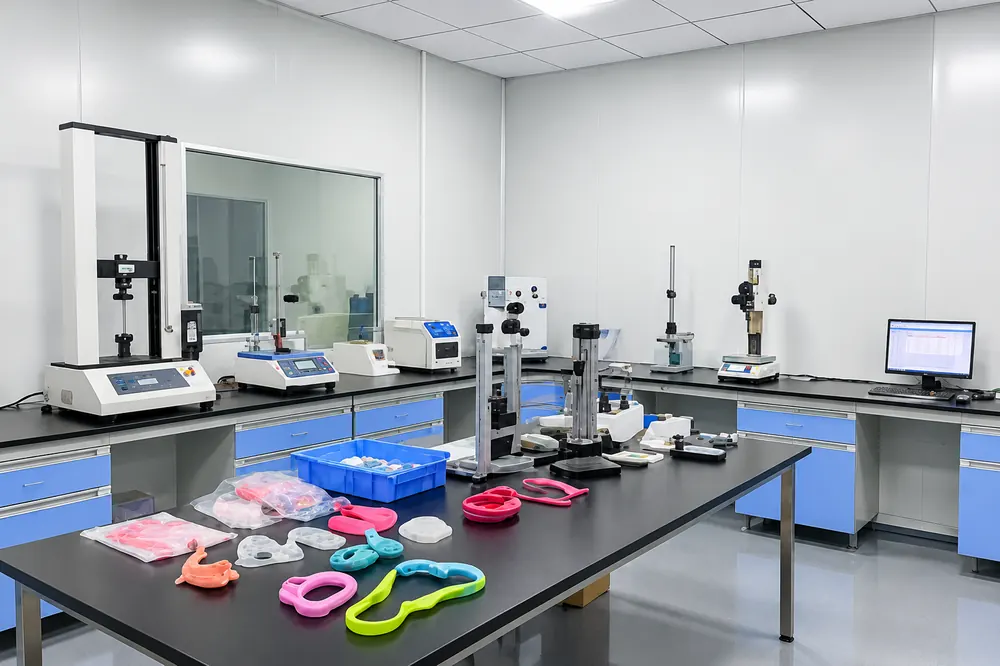
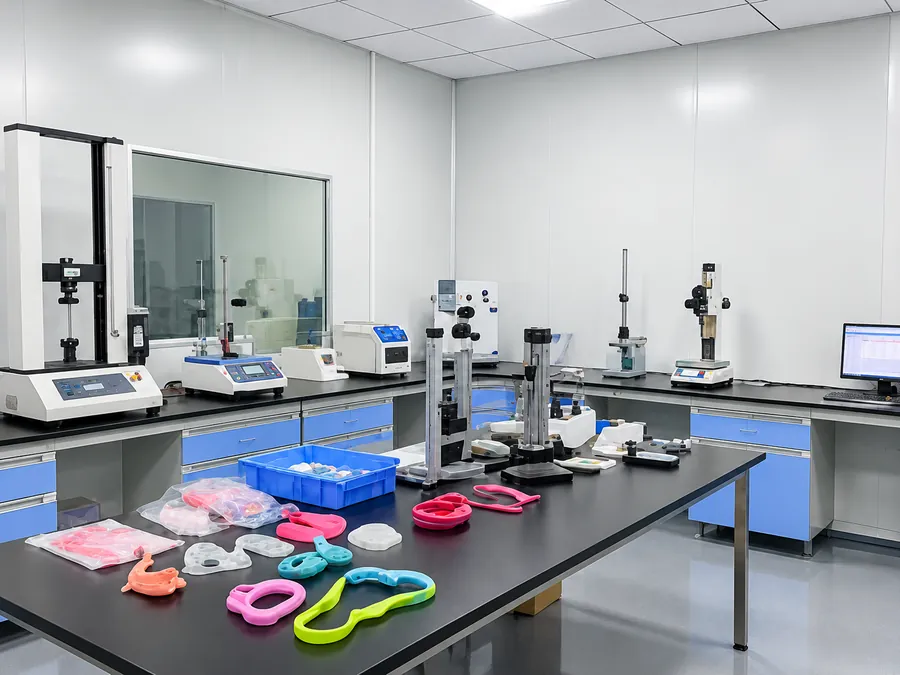
feat(about): facility section as six uniform photo cards with number strip

diff --git a/about.html b/about.html
@@ -137,53 +137,49 @@
           <li><strong>300k</strong><span>Units / month</span></li>
         </ul>
 
-        <div class="facility-cols">
-          <article class="facility-col">
-            <img loading="lazy" decoding="async" src="assets/images/facility/moulding-hall.webp" alt="Moulding hall with hydraulic presses running silicone pet products" width="1000" height="666" />
-            <h3>Tooling &amp; Moulding</h3>
-            <ul>
-              <li>Tooling in-house and a mould store on site, so a colour or size change does not restart tooling.</li>
-              <li>10+ hydraulic presses running compression moulding of silicone.</li>
-              <li>Pressing, deflashing and trimming in the same hall.</li>
-            </ul>
+        <div class="facility-cards">
+          <article class="facility-card">
+            <img loading="lazy" decoding="async" src="assets/images/facility/moulding-hall.webp" alt="Tooling and Moulding at our plant" width="900" height="675" />
+            <div class="facility-card-body">
+              <h3>Tooling &amp; Moulding</h3>
+              <p>自有模具库存厂内，10+ 液压机做硅胶模压，压制与修边在同一车间。</p>
+            </div>
           </article>
-          <article class="facility-col">
-            <img loading="lazy" decoding="async" src="assets/images/facility/packing-line.webp" alt="Packing benches where silicone pet products are checked, counted and bagged" width="1000" height="666" />
-            <h3>Material &amp; Packing</h3>
-            <ul>
-              <li>Silicone sheet slit and rolled to press width on site.</li>
-              <li>Parts sorted, counted and bagged by colour at long benches.</li>
-              <li>Packing lines handle labelling, carton marks and FBA-ready cartons.</li>
-            </ul>
+          <article class="facility-card">
+            <img loading="lazy" decoding="async" src="assets/images/facility/material-prep.webp" alt="Material Preparation at our plant" width="900" height="675" />
+            <div class="facility-card-body">
+              <h3>Material Preparation</h3>
+              <p>片材按压机幅宽分条收卷，配色批次放在产线边上。</p>
+            </div>
           </article>
-          <article class="facility-col">
-            <img loading="lazy" decoding="async" src="assets/images/facility/qc-lab.webp" alt="QC lab with tensile tester, thickness gauge and scales" width="1000" height="666" />
-            <h3>QC &amp; Sample Room</h3>
-            <ul>
-              <li>10+ QC staff checking samples drawn from each batch.</li>
-              <li>Tensile pull, wall thickness and weight measured before packing.</li>
-              <li>Sample room for range reviews and matching against your reference product.</li>
-            </ul>
+          <article class="facility-card">
+            <img loading="lazy" decoding="async" src="assets/images/facility/qc-lab.webp" alt="QC Lab at our plant" width="900" height="675" />
+            <div class="facility-card-body">
+              <h3>QC Lab</h3>
+              <p>10+ QC 人员，每批抽检拉力、壁厚和克重，合格才进包装。</p>
+            </div>
           </article>
-        </div>
-
-        <div class="facility-strip">
-          <figure>
-            <img loading="lazy" decoding="async" src="assets/images/facility/mould-store.webp" alt="Mould store with silicone tooling on racks" width="1000" height="666" />
-            <figcaption>Mould store — repeat orders run from the same tool.</figcaption>
-          </figure>
-          <figure>
-            <img loading="lazy" decoding="async" src="assets/images/facility/material-prep.webp" alt="Silicone sheet being slit and rolled at the material preparation area" width="1000" height="666" />
-            <figcaption>Material preparation — sheet slit to press width.</figcaption>
-          </figure>
-          <figure>
-            <img loading="lazy" decoding="async" src="assets/images/facility/finished-goods.webp" alt="Finished goods warehouse with packed silicone products on pallets" width="1000" height="666" />
-            <figcaption>Finished goods — packed stock staged for loading.</figcaption>
-          </figure>
-          <figure>
-            <img loading="lazy" decoding="async" src="assets/images/facility/sample-room.webp" alt="Sample room with silicone slow feeder mats, lick mats and bowls on display" width="1400" height="583" />
-            <figcaption>Sample room — the range laid out for buyer reviews.</figcaption>
-          </figure>
+          <article class="facility-card">
+            <img loading="lazy" decoding="async" src="assets/images/facility/packing-line.webp" alt="Packing and Labelling at our plant" width="900" height="675" />
+            <div class="facility-card-body">
+              <h3>Packing &amp; Labelling</h3>
+              <p>按颜色分拣计数，贴标、箱唛、FBA 纸箱在包装线上完成。</p>
+            </div>
+          </article>
+          <article class="facility-card">
+            <img loading="lazy" decoding="async" src="assets/images/facility/finished-goods.webp" alt="Warehouse and Loading at our plant" width="900" height="675" />
+            <div class="facility-card-body">
+              <h3>Warehouse &amp; Loading</h3>
+              <p>打包成品按单备货，等装柜，也可直发 FBA 仓。</p>
+            </div>
+          </article>
+          <article class="facility-card">
+            <img loading="lazy" decoding="async" src="assets/images/facility/sample-room.webp" alt="Sample Room at our plant" width="900" height="675" />
+            <div class="facility-card-body">
+              <h3>Sample Room</h3>
+              <p>全系列陈列，可拿你的来样做比对，也能安排视频看样。</p>
+            </div>
+          </article>
         </div>
 
         <p class="facility-note">Shenzhen Qidian runs sampling, order follow-up, pre-shipment inspection, packaging artwork and export documents from Shenzhen; everything above happens at the plant in Guangdong. Ask for a video walkthrough of the line running your SKU, or a sample run before a bulk order.</p>

diff --git a/assets/css/style.css b/assets/css/style.css
@@ -1066,33 +1066,30 @@ ul { list-style: none; }
 .footer-links li.footer-group a { color: var(--white); opacity: 0.95; }
 
 /* Facility block (About page) */
-.facility-banner { position: relative; border-radius: var(--radius); overflow: hidden; margin-bottom: 28px; }
+.facility-banner { position: relative; border-radius: var(--radius); overflow: hidden; margin-bottom: 26px; }
 .facility-banner img { width: 100%; height: auto; display: block; }
-.facility-banner-text { position: absolute; inset: auto 0 0 0; padding: 32px 36px; background: linear-gradient(180deg, rgba(12,26,64,0) 0%, rgba(12,26,64,0.72) 60%, rgba(12,26,64,0.88) 100%); color: #fff; }
-.facility-banner-text h2 { color: #fff; font-size: 1.9rem; margin: 0 0 6px; letter-spacing: -0.01em; }
-.facility-banner-text p { margin: 0; color: rgba(255,255,255,0.86); font-size: 1rem; }
-.facility-stats { list-style: none; display: grid; grid-template-columns: repeat(6, 1fr); gap: 14px; margin: 0 0 34px; padding: 0; }
-.facility-stats li { background: var(--bg-section); border: 1px solid var(--border); border-radius: var(--radius); padding: 16px 14px; text-align: center; }
-.facility-stats strong { display: block; font-size: 1.35rem; color: var(--navy); line-height: 1.15; }
-.facility-stats span { display: block; margin-top: 4px; font-size: 0.8rem; color: var(--text-muted); line-height: 1.35; }
-.facility-cols { display: grid; grid-template-columns: repeat(3, minmax(0, 1fr)); gap: 26px; }
-.facility-col img { width: 100%; height: auto; display: block; border-radius: var(--radius); margin-bottom: 14px; }
-.facility-col h3 { font-size: 1.05rem; color: var(--navy); margin: 0 0 8px; }
-.facility-col ul { margin: 0; padding-left: 18px; }
-.facility-col li { font-size: 0.9rem; line-height: 1.55; color: var(--text-muted); margin-bottom: 6px; }
-.facility-strip { display: flex; gap: 16px; overflow-x: auto; padding: 34px 2px 8px; scroll-snap-type: x mandatory; -webkit-overflow-scrolling: touch; }
-.facility-strip figure { flex: 0 0 260px; margin: 0; scroll-snap-align: start; }
-.facility-strip img { width: 100%; height: auto; display: block; border-radius: var(--radius); }
-.facility-strip figcaption { margin-top: 8px; font-size: 0.82rem; line-height: 1.5; color: var(--text-muted); }
+.facility-banner-text { position: absolute; inset: auto 0 0 0; padding: 30px 36px; background: linear-gradient(180deg, rgba(12,26,64,0) 0%, rgba(12,26,64,0.72) 60%, rgba(12,26,64,0.88) 100%); color: #fff; }
+.facility-banner-text h2 { color: #fff; font-size: 1.85rem; margin: 0 0 6px; letter-spacing: -0.01em; }
+.facility-banner-text p { margin: 0; color: rgba(255,255,255,0.86); font-size: 0.98rem; }
+.facility-stats { list-style: none; display: grid; grid-template-columns: repeat(6, 1fr); gap: 12px; margin: 0 0 28px; padding: 0; }
+.facility-stats li { background: var(--bg-section); border: 1px solid var(--border); border-radius: var(--radius); padding: 14px 10px; text-align: center; }
+.facility-stats strong { display: block; font-size: 1.3rem; color: var(--navy); line-height: 1.15; }
+.facility-stats span { display: block; margin-top: 4px; font-size: 0.78rem; color: var(--text-muted); line-height: 1.35; }
+.facility-cards { display: grid; grid-template-columns: repeat(3, minmax(0, 1fr)); gap: 24px; }
+.facility-card { background: #fff; border: 1px solid var(--border); border-radius: var(--radius); overflow: hidden; display: flex; flex-direction: column; }
+.facility-card img { width: 100%; height: auto; aspect-ratio: 4 / 3; object-fit: cover; display: block; }
+.facility-card-body { padding: 16px 18px 20px; }
+.facility-card h3 { font-size: 1rem; color: var(--navy); margin: 0 0 8px; }
+.facility-card p { margin: 0; font-size: 0.88rem; line-height: 1.55; color: var(--text-muted); }
 .facility-note { margin-top: 24px; max-width: 780px; color: var(--text-muted); }
-@media (max-width: 900px) {
+@media (max-width: 960px) {
   .facility-stats { grid-template-columns: repeat(3, 1fr); }
-  .facility-cols { grid-template-columns: 1fr; gap: 22px; }
-  .facility-banner-text { padding: 22px 20px; }
-  .facility-banner-text h2 { font-size: 1.35rem; }
-  .facility-banner-text p { font-size: 0.9rem; }
+  .facility-cards { grid-template-columns: repeat(2, minmax(0, 1fr)); }
+  .facility-banner-text { padding: 20px 20px; }
+  .facility-banner-text h2 { font-size: 1.3rem; }
+  .facility-banner-text p { font-size: 0.88rem; }
 }
-@media (max-width: 520px) {
+@media (max-width: 560px) {
   .facility-stats { grid-template-columns: repeat(2, 1fr); }
-  .facility-strip figure { flex-basis: 78%; }
+  .facility-cards { grid-template-columns: 1fr; gap: 18px; }
 }
